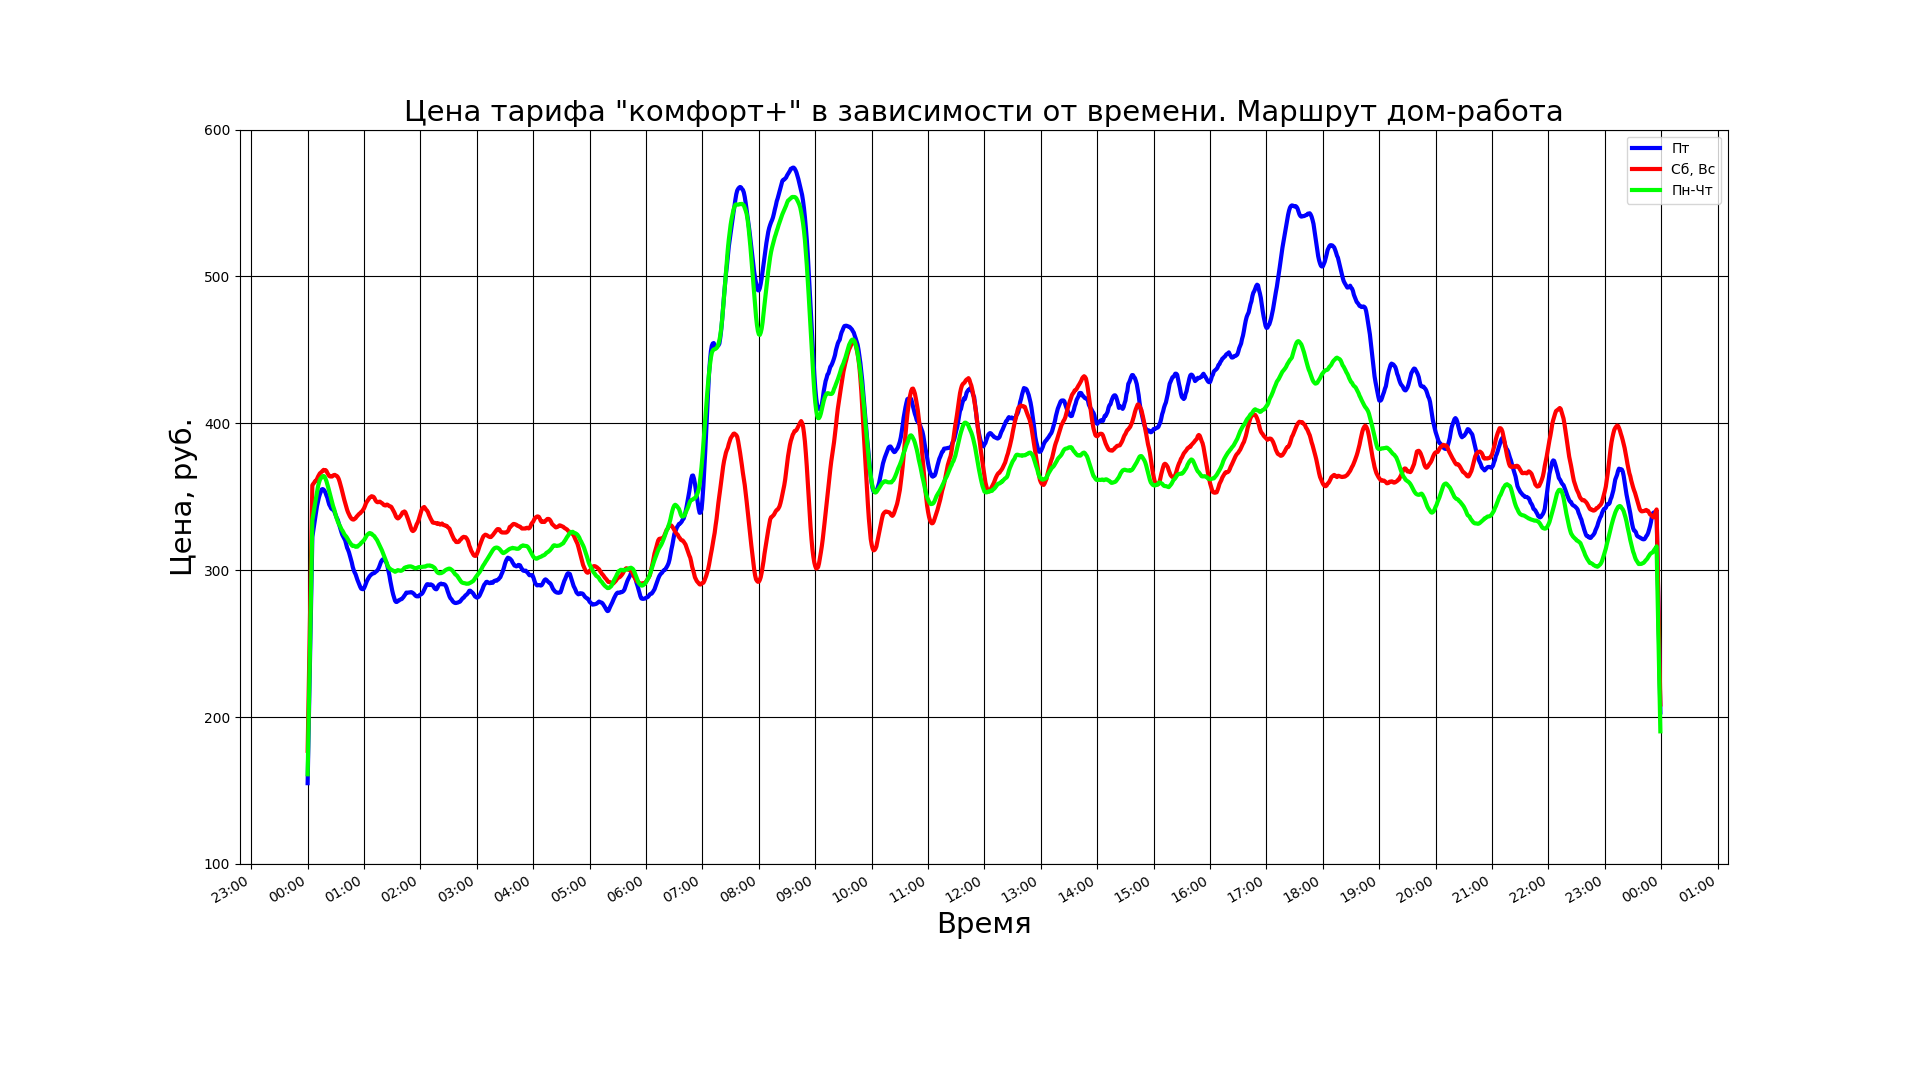
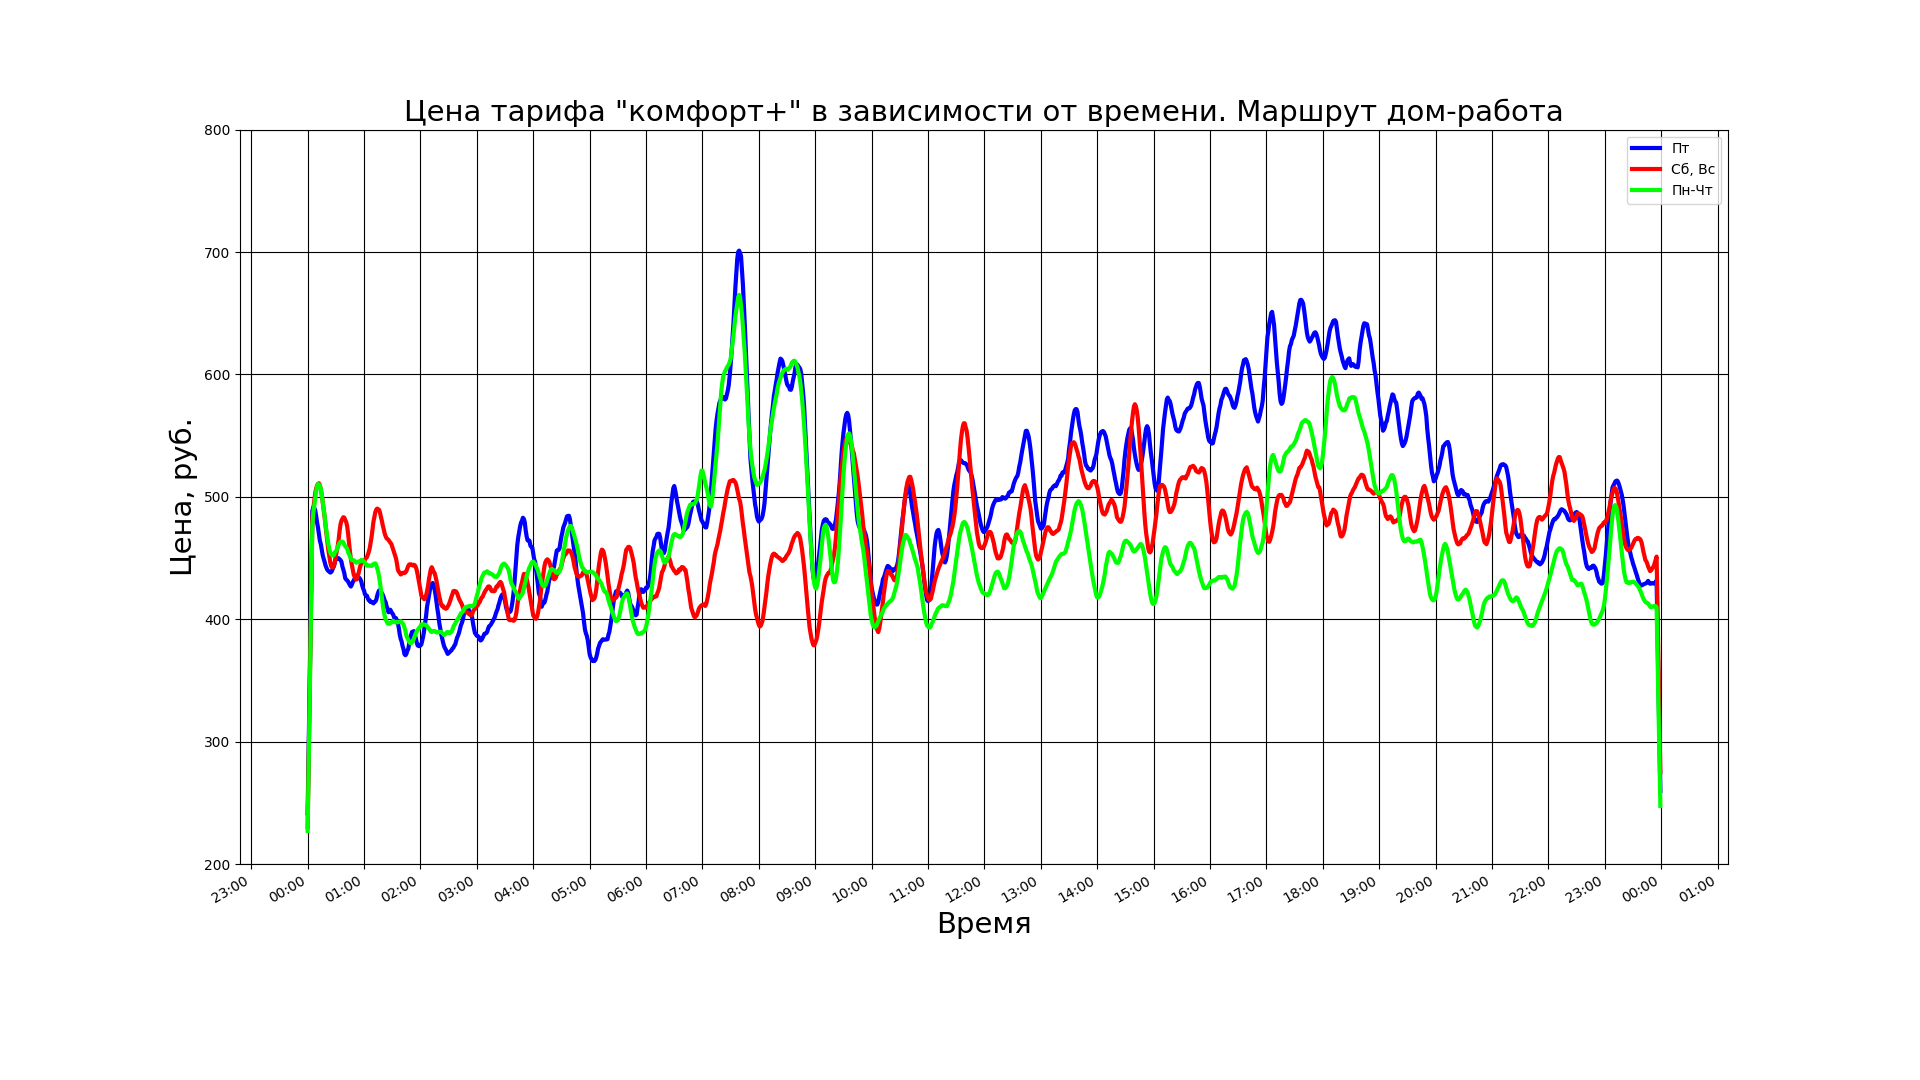
upd taxi

Changed region(s): [[0.1562, 0.1528, 0.875, 0.6111], [0.8438, 0.6417, 0.875, 0.7028]]

diff --git a/apps/bot/commands/trusted/taxi.py b/apps/bot/commands/trusted/taxi.py
@@ -19,7 +19,7 @@ class Taxi(Command):
             [["э", "эконом"], self.menu_econom],
             [["к", "комфорт"], self.menu_comfort],
             [["к+", "комфорт+"], self.menu_comfortplus],
-            [["экспресс"], self.menu_express],
+            [["экспресс", "доставка"], self.menu_express],
             [["курьер"], self.menu_courier],
             [['default'], self.menu_econom]
         ]

diff --git a/apps/service/management/commands/print_yandex_taxi_graphic.py b/apps/service/management/commands/print_yandex_taxi_graphic.py
@@ -87,7 +87,7 @@ class Command(BaseCommand):
                 color='gray',
                 linestyle=':')
 
-        ax.set_ylim([100, 600])
+        ax.set_ylim([200, 800])
 
         window_len = 10  # minutes
         kernel = np.ones(window_len, dtype=float) / window_len
